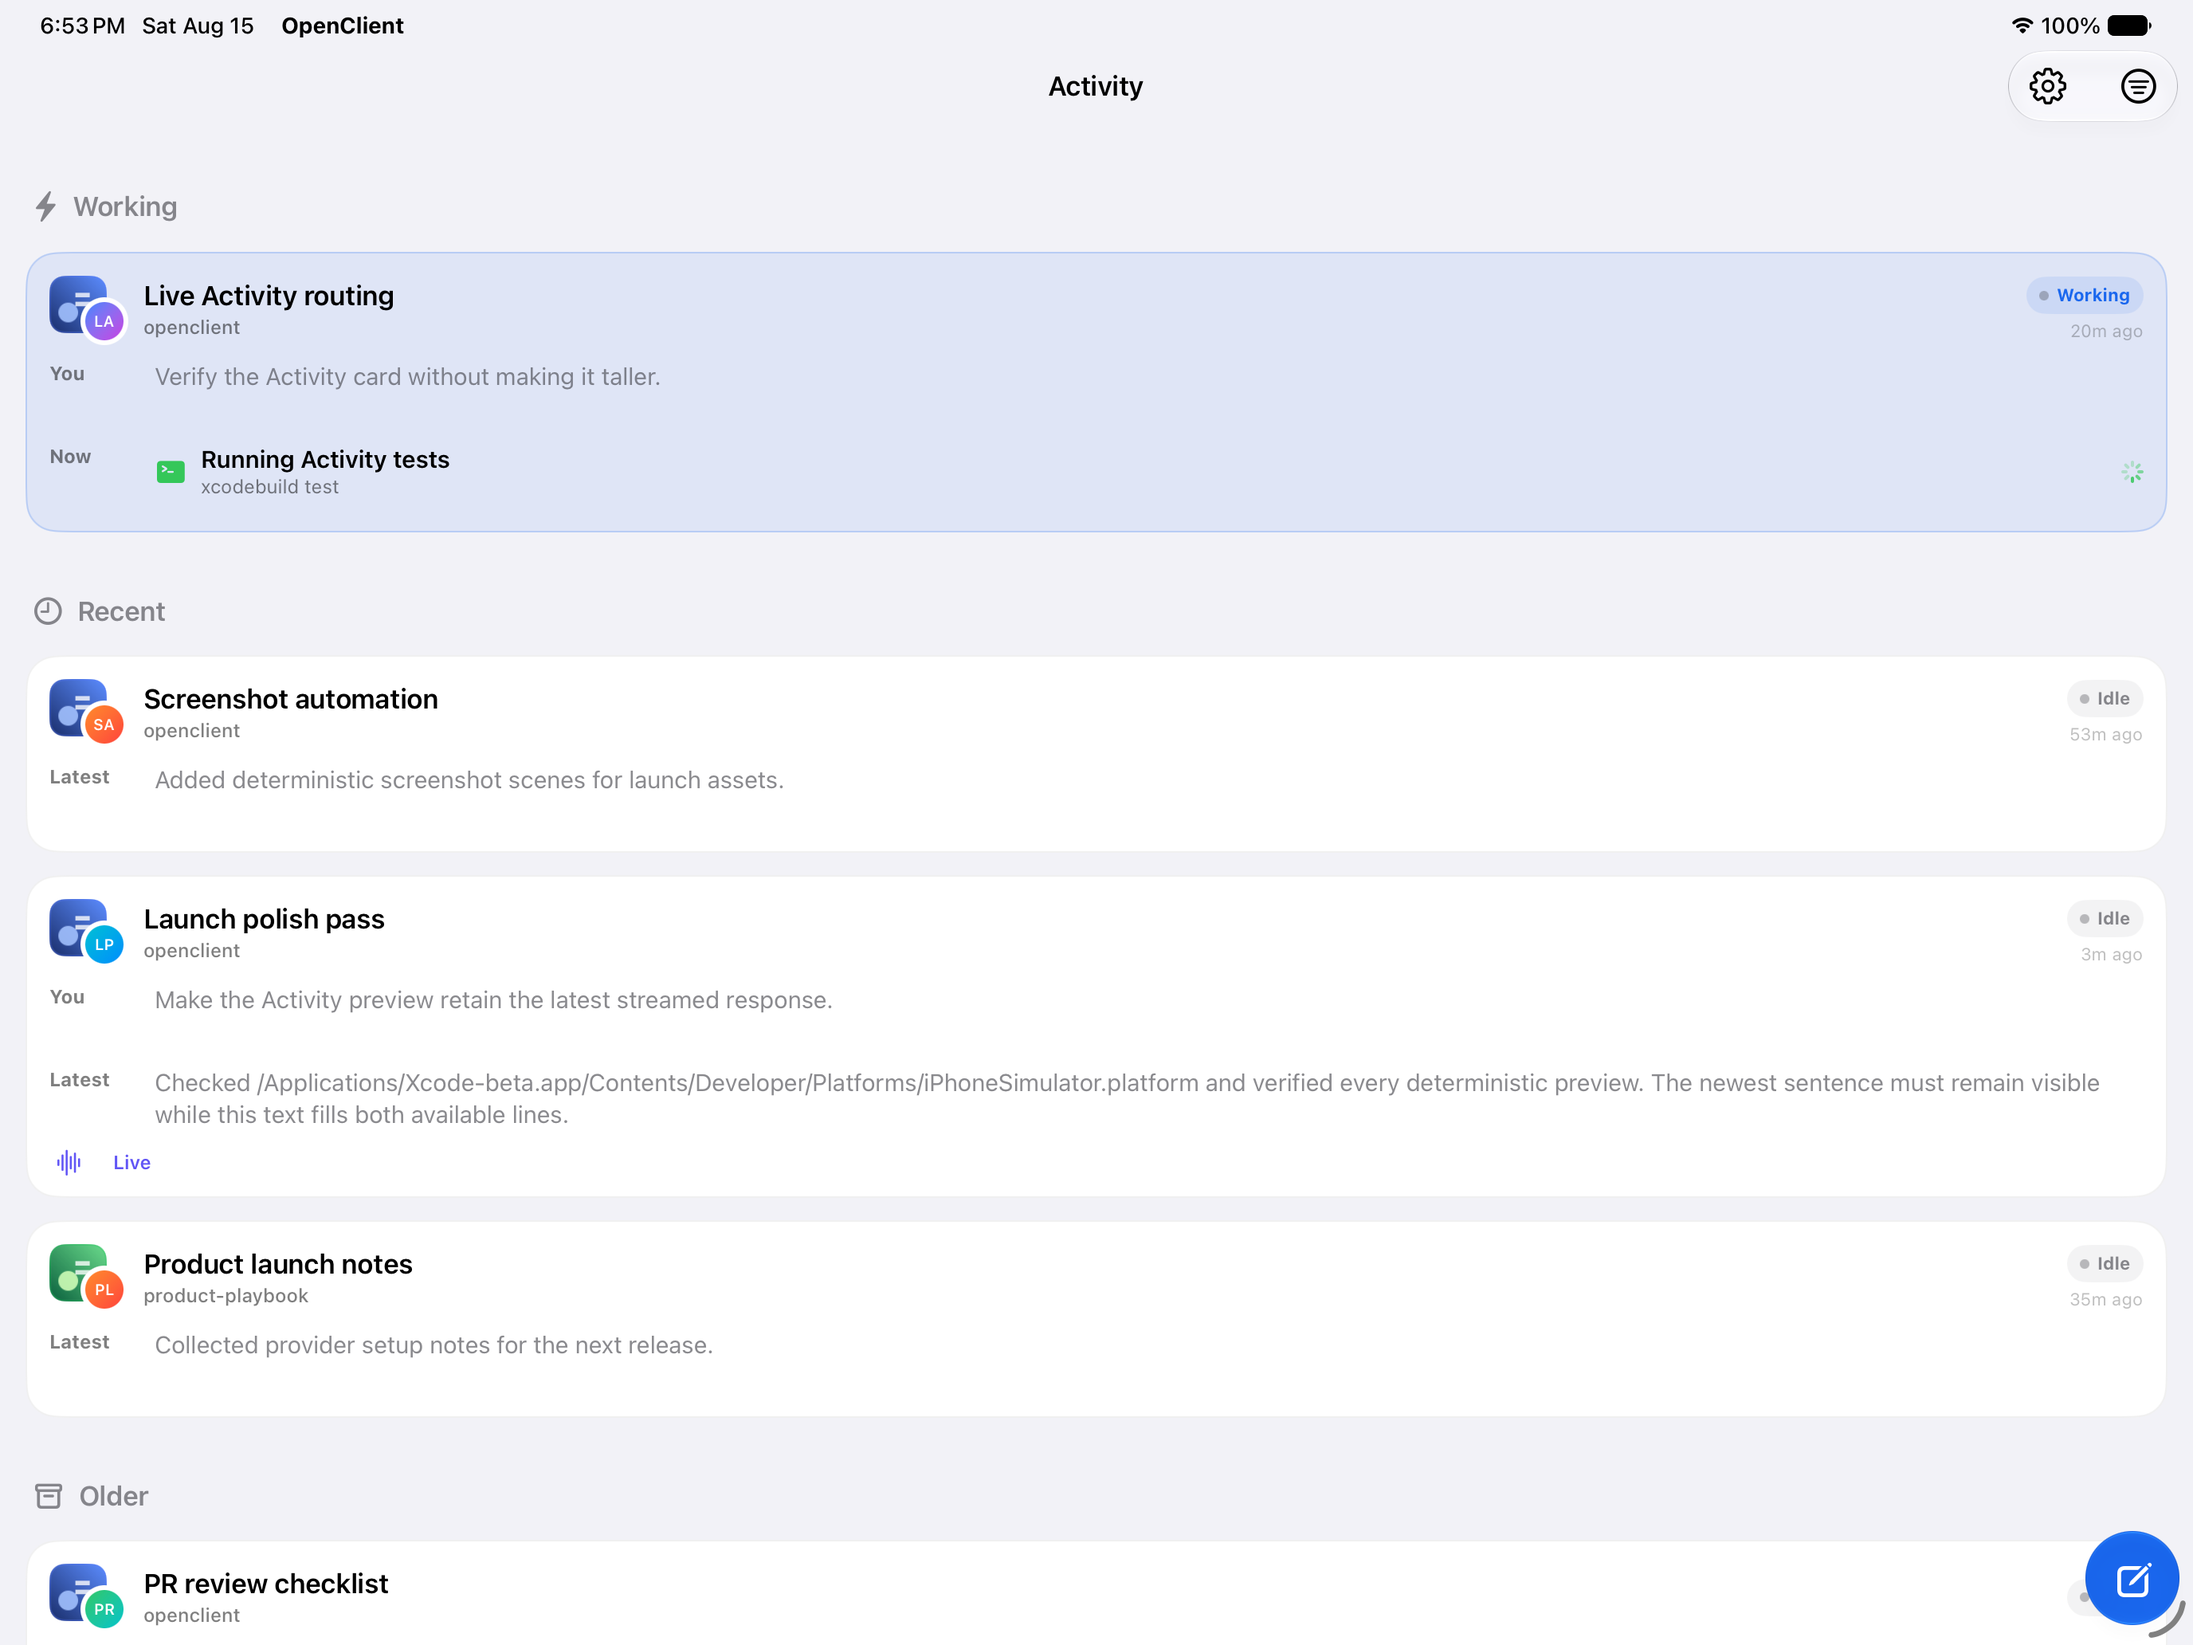
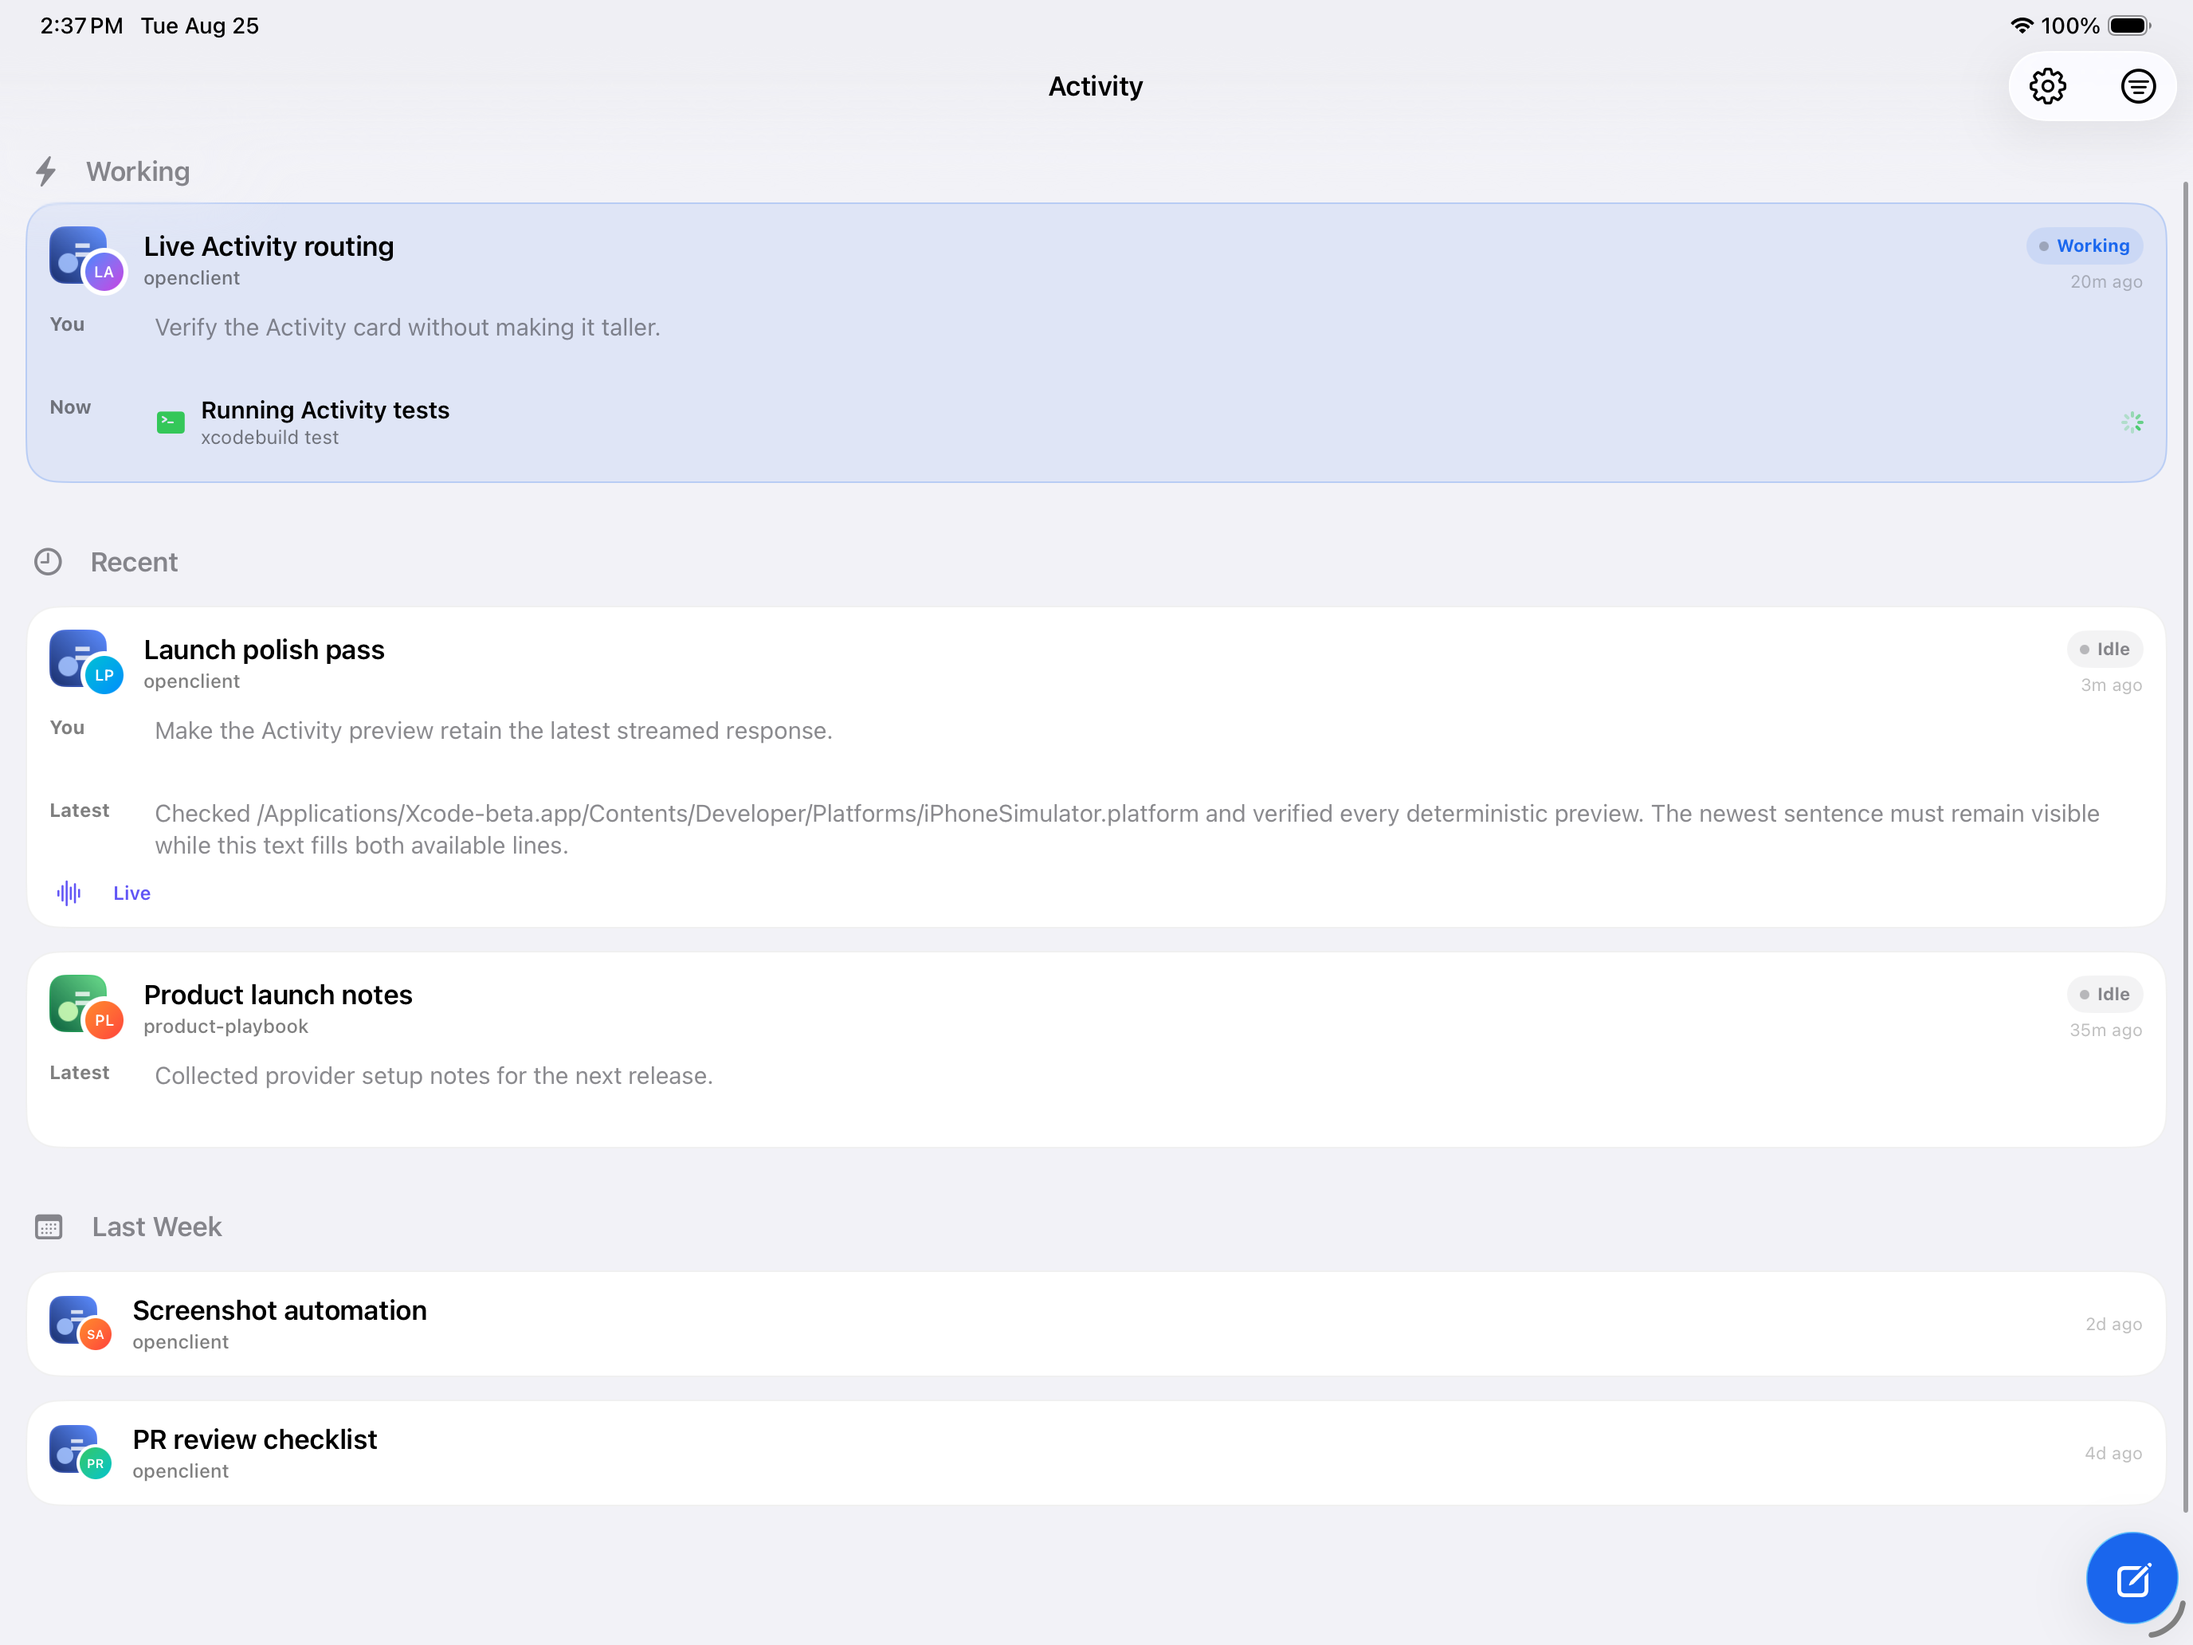
Refresh iPad App Store screenshots

diff --git a/OpenCodeIOSClientUITests/OpenCodeIOSClientUITests.swift b/OpenCodeIOSClientUITests/OpenCodeIOSClientUITests.swift
@@ -45,7 +45,6 @@ final class OpenCodeIOSClientUITests: XCTestCase {
             ("new-session", "05-new-session"),
             ("provider-setup", "06-provider-setup"),
             ("sessions", "07-sessions"),
-            ("chat", "08-chat"),
             ("permission", "09-permission"),
             ("question", "10-question"),
             ("fun-games", "11-fun-games"),
@@ -62,6 +61,7 @@ final class OpenCodeIOSClientUITests: XCTestCase {
             ("browser", "22-browser"),
             ("visual-tools", "23-visual-tools"),
             ("terminal-showcase", "24-terminal"),
+            ("chat", "08-chat"),
         ]
 
         let requestedScenes = Set(
@@ -90,6 +90,7 @@ final class OpenCodeIOSClientUITests: XCTestCase {
 
             let app = XCUIApplication()
             setupSnapshot(app)
+            app.launchArguments += ["-ApplePersistenceIgnoreState", "YES"]
             app.launchEnvironment["OPENCLIENT_SCREENSHOT_SCENE"] = scene
             if scene == "terminal-showcase" {
                 app.launchEnvironment["OPENCODE_UI_TEST_MODE"] = "1"
@@ -120,6 +121,28 @@ final class OpenCodeIOSClientUITests: XCTestCase {
                 XCTAssertTrue(app.navigationBars["New Session"].waitForExistence(timeout: 10), "Expected new session sheet to load")
                 let projectPicker = app.descendants(matching: .any)["projects.newChat.project"]
                 XCTAssertTrue(projectPicker.waitForExistence(timeout: 10), "Expected project picker in new session sheet")
+            }
+
+            if scene == "activity", capturesLandscape {
+                let historicalSession = app.buttons["activity.session.session-screenshot-review"]
+                XCTAssertTrue(
+                    revealForScreenshot(historicalSession, in: app),
+                    "Expected simplified historical Activity card"
+                )
+            }
+
+            if scene == "chat", capturesLandscape {
+                let dedicatedWindow = app.descendants(matching: .any)["chat.dedicatedWindow"]
+                if !dedicatedWindow.exists {
+                    let openWindow = app.buttons["chat.toolbar.openWindow"]
+                    XCTAssertTrue(openWindow.waitForExistence(timeout: 10), "Expected Open Chat in New Window action")
+                    openWindow.tap()
+                }
+                XCTAssertTrue(
+                    dedicatedWindow.waitForExistence(timeout: 10),
+                    "Expected dedicated chat window"
+                )
+                sleep(1)
             }
 
             if scene == "composer-actions" {
@@ -165,6 +188,20 @@ final class OpenCodeIOSClientUITests: XCTestCase {
             snapshot(screenshotName)
             app.terminate()
         }
+    }
+
+    @MainActor
+    private func revealForScreenshot(_ element: XCUIElement, in app: XCUIApplication) -> Bool {
+        for _ in 0 ..< 8 {
+            if element.exists,
+               element.isHittable,
+               element.frame.midY < app.frame.height * 0.78 {
+                return true
+            }
+            app.swipeUp()
+            RunLoop.current.run(until: Date().addingTimeInterval(0.25))
+        }
+        return element.exists && element.isHittable
     }
 
     @MainActor

diff --git a/OpenCodeIOSClient/OpenCodeIOSClientApp.swift b/OpenCodeIOSClient/OpenCodeIOSClientApp.swift
@@ -100,20 +100,16 @@ struct OpenCodeIOSClientApp: App {
         }
 
         WindowGroup(id: OpenClientChatWindowRoute.sceneID, for: OpenClientChatWindowRoute.self) { $route in
-            if let route {
-                NavigationStack {
-                    ChatView(
-                        chatFacade: composition.chat,
-                        browser: composition.appShell.browser,
-                        imageContent: composition.imageContent,
-                        videoStreams: composition.videoStreams,
-                        sessionID: route.sessionID,
-                        preferredDirectoryKey: route.directoryKey,
-                        isDedicatedWindow: true
-                    )
+            Group {
+#if DEBUG
+                if let screenshotScene, screenshotScene != .chat {
+                    ScreenshotSceneView(scene: screenshotScene, viewModel: composition.viewModel)
+                } else {
+                    dedicatedChatWindow(route: route)
                 }
-                .opencodeSoftScrollEdgeEffect()
-                .opencodeDismissesSheetsOnBackgroundTap()
+#else
+                dedicatedChatWindow(route: route)
+#endif
             }
         }
     }
@@ -132,6 +128,37 @@ struct OpenCodeIOSClientApp: App {
                 sessionID: sessionID,
                 presentationRequest: presentationRequest
             )
+        }
+    }
+
+    @ViewBuilder
+    private func dedicatedChatWindow(route: OpenClientChatWindowRoute?) -> some View {
+        if let route {
+            NavigationStack {
+                ChatView(
+                    chatFacade: composition.chat,
+                    browser: composition.appShell.browser,
+                    imageContent: composition.imageContent,
+                    videoStreams: composition.videoStreams,
+                    sessionID: route.sessionID,
+                    preferredDirectoryKey: route.directoryKey,
+                    isDedicatedWindow: true
+                )
+            }
+            .accessibilityIdentifier("chat.dedicatedWindow")
+            .overlay(alignment: .topLeading) {
+#if DEBUG
+                if screenshotScene == .chat {
+                    Text(OpenClientScreenshotScene.chat.rawValue)
+                        .font(.caption2)
+                        .foregroundStyle(.clear)
+                        .padding(1)
+                        .accessibilityIdentifier(OpenClientScreenshotScene.chat.accessibilityIdentifier)
+                }
+#endif
+            }
+            .opencodeSoftScrollEdgeEffect()
+            .opencodeDismissesSheetsOnBackgroundTap()
         }
     }
 }

diff --git a/OpenCodeIOSClient/ViewModels/AppViewModel/AppViewModel+Screenshots.swift b/OpenCodeIOSClient/ViewModels/AppViewModel/AppViewModel+Screenshots.swift
@@ -243,6 +243,14 @@ extension AppViewModel {
             ],
             forSessionID: OpenClientScreenshotData.followupSession.id
         )
+        viewModel.sessionPreviews[OpenClientScreenshotData.archivedSession.id] = SessionPreview(
+            text: "Added deterministic screenshot scenes for launch assets.",
+            date: Date().addingTimeInterval(-172_800)
+        )
+        viewModel.sessionPreviews[OpenClientScreenshotData.reviewSession.id] = SessionPreview(
+            text: "Pinned checklist for every release candidate review.",
+            date: Date().addingTimeInterval(-345_600)
+        )
         return viewModel
     }
 
